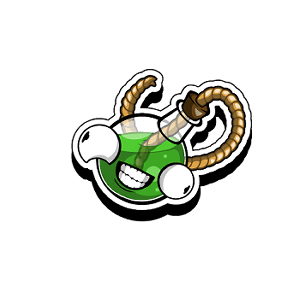
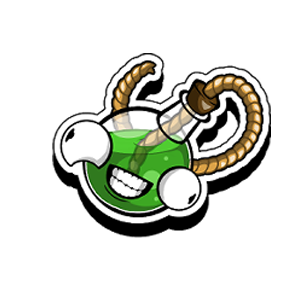
Change detonator art. Fixed bombcard positioning

Changed region(s): [[0.15, 0.15, 0.93, 0.81]]

diff --git a/BoomGame/Assets/Scripts/IngameHUD.cs b/BoomGame/Assets/Scripts/IngameHUD.cs
@@ -182,7 +182,7 @@ public class IngameHUD : MonoBehaviour
     private IEnumerator NextRoundDelayed(int roundNumber, float delay)
     {
         yield return new WaitForSeconds(0.1f);
-        ShowSlidingHUD(0.5f);
+        ShowSlidingHUD(0.8f);
         ShowRoundText(delay, roundNumber);
 
     }
@@ -398,8 +398,8 @@ public class IngameHUD : MonoBehaviour
 
         transform.anchoredPosition = new Vector2(-1500f, 0);
         DOTween.Sequence()
-                .Append(transform.DOAnchorPosX(0, 0.5f).SetEase(Ease.OutQuad).SetUpdate(true))
-                            .Insert(1f, transform.DOAnchorPosX(1500f, 0.5f).SetEase(Ease.InQuad).SetUpdate(true));
+                .Append(transform.DOAnchorPosX(0, 0.4f).SetEase(Ease.OutQuad).SetUpdate(true))
+                            .Insert(0.8f, transform.DOAnchorPosX(1500f, 0.4f).SetEase(Ease.InQuad).SetUpdate(true));
 
         StartCoroutine(ActivateObjectWithDelay(hideDelay, roundPanel, false));
     }
@@ -426,7 +426,7 @@ public class IngameHUD : MonoBehaviour
             return;
 
         //Get current bomb cards and add position offset for each one
-        float leftOffset = -40f;
+        float leftOffset = -5f;
         var bombCards = GameObject.FindGameObjectsWithTag("BombCard");
         foreach (var bombCard in bombCards)
         {
@@ -443,11 +443,12 @@ public class IngameHUD : MonoBehaviour
         cardImage.sprite = bomb.GetComponent<Bomb>().inventoryIcon;
 
         //Set sprite aspect ratio so different size icons fit correcly
-        var cardAspectRatioFitter = card.GetComponent<AspectRatioFitter>();
-        cardAspectRatioFitter.aspectRatio = cardImage.sprite.rect.width / cardImage.sprite.rect.height;
+        //var cardAspectRatioFitter = card.GetComponent<AspectRatioFitter>();
 
-        cardTransform.localPosition = new Vector3(leftOffset, -40f, 0);
-        cardTransform.localScale = new Vector3(1.5f, 1.5f, 1f);
+        //cardAspectRatioFitter.aspectRatio = cardImage.sprite.rect.width / cardImage.sprite.rect.height;
+
+        cardTransform.localPosition = new Vector3(leftOffset, -5f, 0);
+        cardTransform.localScale = new Vector3(1f, 1f, 1f);
 
         var bombCardScript = card.GetComponent<BombCard>();
         bombCardScript.bombPrefab = bomb;

diff --git a/BoomGame/Assets/Scripts/GameController.cs b/BoomGame/Assets/Scripts/GameController.cs
@@ -56,7 +56,7 @@ public class GameController : MonoBehaviour
     public int salvageValue = 100;
 
     private GameMaster gameMaster;
-    private float roundDelay = 1.5f;
+    private float roundDelay = 1f;
 
     [HideInInspector]
     public List<AudioClip> bombScreamsToPlay;
